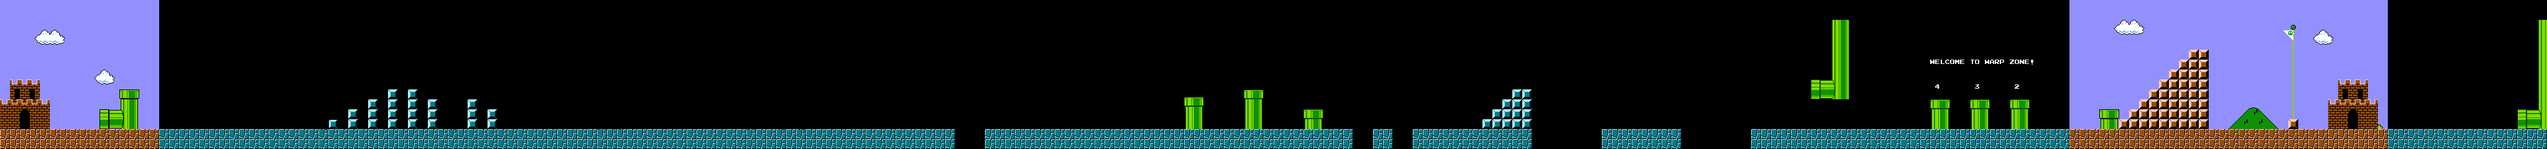
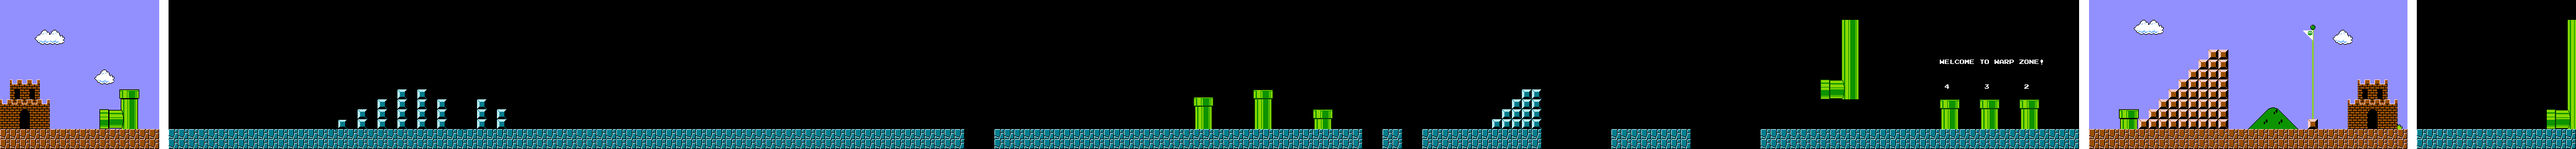
added colorworld for level2

Changed region(s): [[0.0, 0.0, 1.0, 1.0], [0.875, 0.175, 0.9375, 0.3208], [0.0312, 0.525, 0.0625, 0.5542]]

diff --git a/myGame/blockTypes/BrickBlock.java b/myGame/blockTypes/BrickBlock.java
@@ -1,7 +1,6 @@
 
 package myGame.blockTypes;
 
-
 import gameEngine.GameContainer;
 import gameEngine.Renderer;
 import java.awt.Point;
@@ -9,68 +8,57 @@ import myGame.GameManager;
 import myGame.gameObjects.Block;
 import myGame.gameObjects.Coin;
 
+public class BrickBlock extends Block {
 
-public class BrickBlock extends Block
-{
+	private int containingCoins = 10;
 
-    private int containingCoins = 10;
-
-    public BrickBlock (int tileX, int tileY)
-    {
-	super(tileX, tileY, "/resources/images/blocks/brick_block/brickBlock_spriteSheet.png");
-	tag = "coinBlock";
-    }
-
-    @Override
-    public void update (GameContainer gc, GameManager gm, float dt)
-    {
-	switch ( state )
-	{
-	    case NORMAL_STATE:
-		anim = 0;
-		if ( hit )
-		{
-		    if ( tileX == 94 )
-		    {
-			containingCoins--;
-			gm.addObject(new Coin(tileX, tileY - 1));
-			if ( containingCoins == 0 )
-			{
-			    gm.getMap().getBlocks().replace(new Point(tileX, tileY), new CoinBlock(tileX, tileY, "coin"));
-			    gm.getMap().getBlock(tileX, tileY).setHit(hit);
-			}
-		    }
-		    state = HIT_STATE;
-		    anim = 0;
-		}
-		break;
-
-	    case HIT_STATE:
-		anim += dt * 20;
-		break;
+	public BrickBlock(int tileX, int tileY, String path) {
+		super(tileX, tileY, "/resources/images/blocks/brick_block/" + path);
+		tag = "brickBlock";
 	}
-    }
 
-    @Override
-    public void render (GameContainer gc, Renderer r)
-    {
-	switch ( state )
-	{
-	    case NORMAL_STATE:
-		r.drawImageTile(spriteSheet, (int) (posX), (int) (posY + offY), 5, 0);
-		break;
+	@Override
+	public void update(GameContainer gc, GameManager gm, float dt) {
+		switch (state) {
+			case NORMAL_STATE:
+				anim = 0;
+				if (hit) {
+					if (tileX == 94) {
+						containingCoins--;
+						gm.addObject(new Coin(tileX, tileY - 1));
+						if (containingCoins == 0) {
+							gm.getMap().getBlocks().replace(new Point(tileX, tileY),
+									new CoinBlock(tileX, tileY, "coin"));
+							gm.getMap().getBlock(tileX, tileY).setHit(true);
+						}
+					}
+					state = HIT_STATE;
+					anim = 0;
+				}
+				break;
 
-	    case HIT_STATE:
-		r.drawImageTile(spriteSheet, (int) (posX), (int) (posY + offY), (int) (anim % 6), 0);
-		if ( (int) anim % 7 == 6 )
-		{
-		    hit = false;
-		    state = NORMAL_STATE;
+			case HIT_STATE:
+				anim += dt * 20;
+				break;
 		}
-
-
-		break;
 	}
-    }
+
+	@Override
+	public void render(GameContainer gc, Renderer r) {
+		switch (state) {
+			case NORMAL_STATE:
+				r.drawImageTile(spriteSheet, (int) (posX), (int) (posY + offY), 5, 0);
+				break;
+
+			case HIT_STATE:
+				r.drawImageTile(spriteSheet, (int) (posX), (int) (posY + offY), (int) (anim % 6), 0);
+				if ((int) anim % 7 == 6) {
+					hit = false;
+					state = NORMAL_STATE;
+				}
+
+				break;
+		}
+	}
 
 }

diff --git a/myGame/gameObjects/Map.java b/myGame/gameObjects/Map.java
@@ -79,12 +79,12 @@ public class Map // extends GameObject
 					
 					case brickBlock:
 						collisionMap[y][x] = true;
-						blocks.put(new Point(x, y), new BrickBlock(x, y));
+						blocks.put(new Point(x, y), new BrickBlock(x, y, "brickBlock_spriteSheet.png"));
 						break;
 
 					case caveBrickBlock:
 						collisionMap[y][x] = true;
-						blocks.put(new Point(x, y), new BrickBlock(x, y));
+						blocks.put(new Point(x, y), new BrickBlock(x, y,"undergroundBrickBlock_spriteSheet.png"));
 						break;
 						
 					case coinBlockM:
